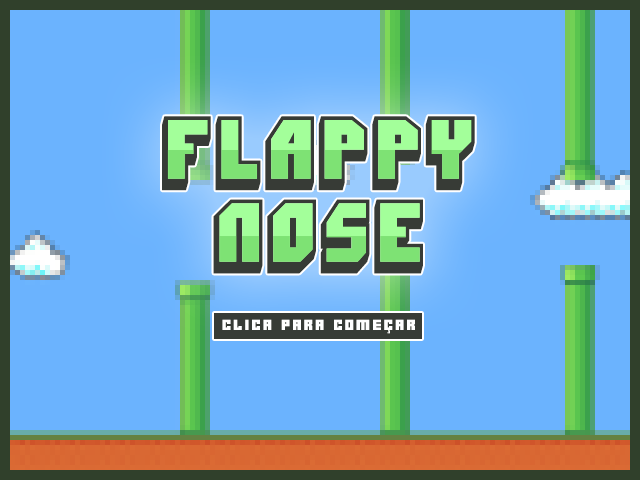
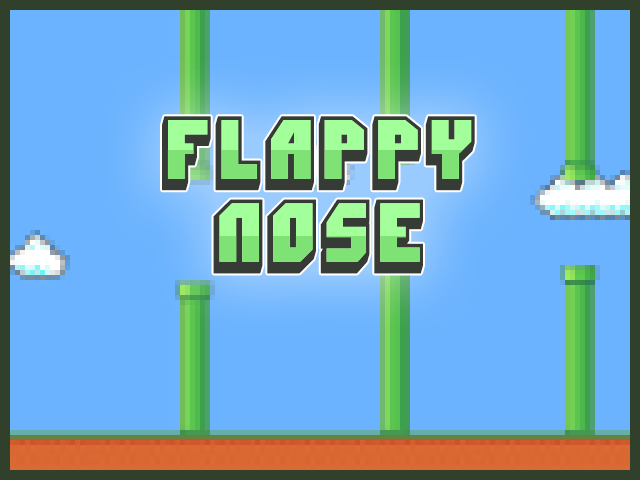
Update 3
-> Coleta de "smiles" como pontos
 -> Reset de tudo na colisão

Changed region(s): [[0.3125, 0.625, 0.6875, 0.7188]]

diff --git a/jogo.js b/jogo.js
@@ -1,6 +1,4 @@
-// Using an Object Layer to limit movement and changing Map Tiles.
-var tmap, smiley, plantsIndex;
-var x, y, topY = [];
+var x, y, topY = [], iconY = [], collected = [];
 
 let video;
 
@@ -9,9 +7,9 @@ let noseY = 0;
 
 let initialBirdX = 100;
 
-let tunelX = 320;
+let tunelX;
+let iconX;
 
-let colected1 = false, colected2 = false, colected3 = false, colected4 = false, colected5 = false;
 let cursosESTG = 0;
 
 let inicio = true;
@@ -24,6 +22,8 @@ function preload() {
 	tunelTop = loadImage("data/Tunnel.png");
 	tunelDown = loadImage("data/Tunnel2.png");
 	logo = loadImage("data/logo.png");
+	botao = loadImage("data/botao.png");
+	icon = loadImage("data/smiley.png");
 }
 
 function setup() {
@@ -38,6 +38,12 @@ function setup() {
 
 	for (let i = 1; i < 25; i++) {
 		topY[i] = random(-540, -440);
+	}
+
+	for (let i = 1; i < 24; i++){
+		iconY[i] = random(100, 350);
+
+		collected[i] = true;
 	}
 }
 
@@ -117,8 +123,23 @@ function rectBall(rx, ry, rw, rh, bx, by, d) {
 function draw() {
 	if (inicio) {
 		background('grey');
+
+		tunelX = 320;
+		iconX = 170;
+
+		for (let i = 1; i < 24; i++){
+			iconY[i] = random(100, 350);
+	
+			collected[i] = true;
+		}
+
+		cursosESTG = 0;
+
 		imageMode(CORNER);
 		image(begin, 0, 0);
+		imageMode(CENTER);
+		image(botao, width/2, 330);
+
 	} else {
 		background('grey');
 
@@ -126,8 +147,6 @@ function draw() {
 		image(video, 0, 0);
 
 		iniciarMapa();
-
-		tunelX = tunelX - 2.5;
 
 		imageMode(CENTER);
 		image(bird, initialBirdX, noseY, 32, 32);
@@ -147,7 +166,7 @@ function draw() {
 }
 
 function mouseClicked() {
-	if (inicio) {
+	if ((mouseX >= width/2-105 && mouseX <= width/2+105 && mouseY >= 315 && mouseY <= 345) && inicio) {
 		inicio = !inicio;
 	}
 }
@@ -156,18 +175,28 @@ function mouseClicked() {
 /* -- Print dos tuneis -- */
 function iniciarMapa() {
 
-	/* -- Loop do número de tuneis a mostrar -- */
-	for (let i = 1; i < 25; i++) {
-		
-		/* -- Mostra cada tunel (cima e baixo) -- */
-		image(tunelTop, tunelX + (300 * i), topY[i]);
-		image(tunelDown, tunelX + (300 * i), (topY[i] + 790));
+	if (inicio == false) {
 
-		/* -- Invoca a função das colisões, com o devido i -- */
-		testarColisão(i);
+		/* -- Loop do número de tuneis a mostrar -- */
+		for (let i = 1; i < 25; i++) {
+
+			/* -- Mostra cada tunel (cima e baixo) -- */
+			image(tunelTop, tunelX + (300 * i), topY[i]);
+			image(tunelDown, tunelX + (300 * i), (topY[i] + 790));
+
+			if(collected[i]){
+				image(icon, iconX + (300 * i), (iconY[i]));
+			}
+
+			/* -- Invoca a função das colisões, com o devido i -- */
+			testarColisão(i);
+
+		}
+		
+		tunelX = tunelX - 2.5;
+		iconX = iconX - 2.5;
 
 	}
-
 }
 
 
@@ -176,13 +205,20 @@ function testarColisão(i) {
 
 	/* -- Testa colisão com o tunel de cima -- */
 	if ((initialBirdX + 16) > (tunelX + (300 * i)) && (initialBirdX - 16) < (tunelX + (300 * i) + 71) && (noseY + 16) > (topY[i]) && (noseY - 16) < (topY[i] + 640)) {
-		text("TOCOU", initialBirdX - 16, noseY - 32);
+		inicio = true;
 	}
 
 
 	/* -- Testa colisão com o tunel de baixo -- */
 	if ((initialBirdX + 16) > (tunelX + (300 * i)) && (initialBirdX - 16) < (tunelX + (300 * i) + 71) && (noseY + 16) > (topY[i] + 790) && (noseY - 16) < (topY[i] + 640 + 790)) {
-		text("TOCOU", initialBirdX - 16, noseY - 32);
+		inicio = true;
+	}
+
+	if ((initialBirdX + 16) > (iconX + (300 * i)) && (initialBirdX - 16) < (iconX + (300 * i) + 32) && (noseY + 16) > (iconY[i]) && (noseY - 16) < (iconY[i] + 32)) {
+		if(collected[i]){
+			cursosESTG++;
+		}
+		collected[i] = false;
 	}
 
 }
